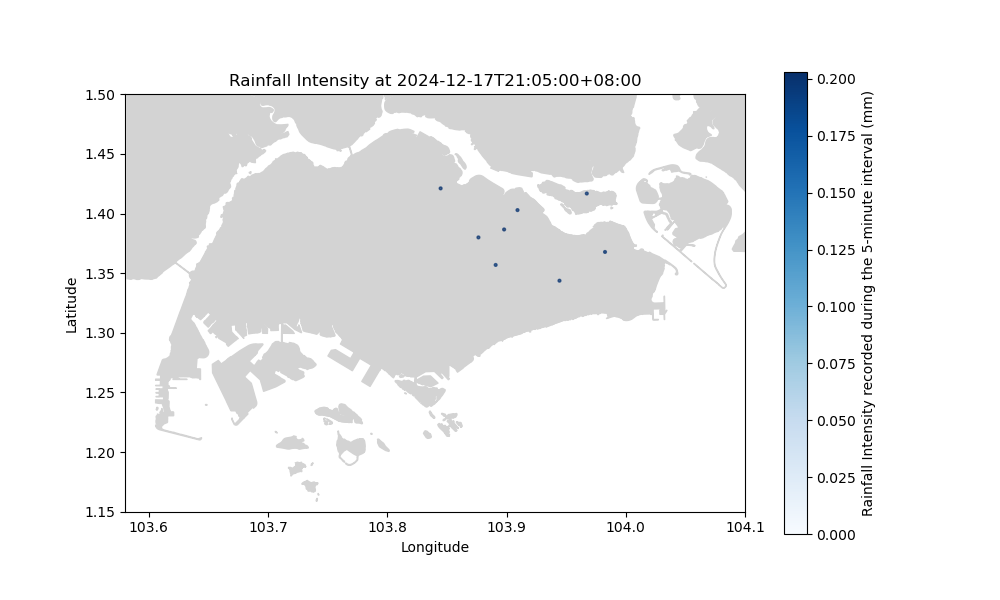
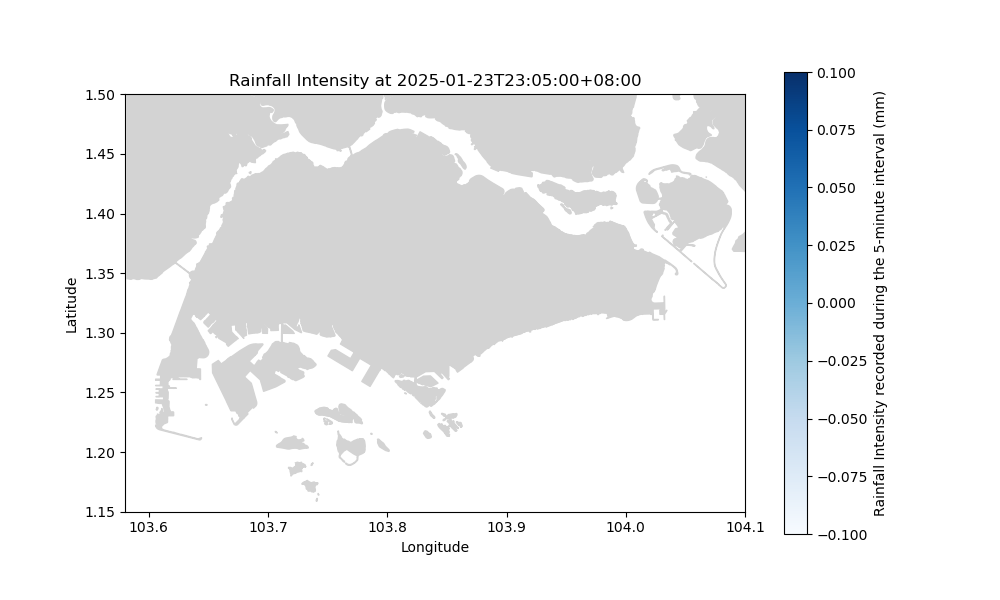
updated README.md

diff --git a/README.md b/README.md
@@ -10,5 +10,12 @@ There is no user-interface yet, but there are 2 main scripts in the ```scripts/`
 1.  ```visualise.py``` which outputs a plot of the most updated 5 minute rainfall readings from Singapore's extensive rain gauge network.
 2. ```forecastvisualise.py``` which outputs a plot of the most updated 2-hour weather forecast over every town in Singapore.
 
+# Example of usage
+On a relatively dry period with little to no rainfall being registered in the rain gauge network, upon running the ```scripts/visualise.py``` script, expect to see a plot that looks something like this:
+![](figures/Dry_day.png)
+
+On a cloudy day, upon running the ```scripts/forecastvisualise.py``` script, expect to see a plot that looks like this:
+~[](figures/Cloudyday.png)
+
 ## Miscellaneous script
 ```periodicscript.py``` is a script that when run, pulls the 2-hour forecast data over Tampines every 10 minutes and cumulatively writes this into ```data.csv``` located in the ```data/``` directory. I am currently using this script to keep a record of what was forecasted over Tampines and what time the forecasts were made. (Maybe in future, I can do some analytics with the data).
